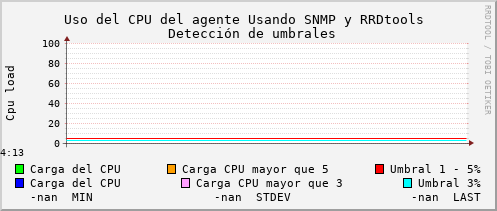
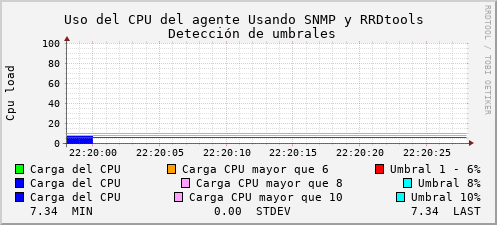
cambios

diff --git a/trendGraphDetection.py b/trendGraphDetection.py
@@ -9,7 +9,6 @@ def deteccion(segundos:int):
     ultima_lectura = int(rrdtool.last("trend.rrd"))
     tiempo_final = ultima_lectura
     tiempo_inicial = tiempo_final - segundos
-
     ret = rrdtool.graphv( "deteccion.png",
                         "--start",str(tiempo_inicial),
                         "--end",str(tiempo_final),
@@ -25,15 +24,20 @@ def deteccion(segundos:int):
                         "VDEF:cargaSTDEV=cargaCPU,STDEV",
                         "VDEF:cargaLAST=cargaCPU,LAST",
 
-                        "CDEF:umbral5=cargaCPU,5,LT,0,cargaCPU,IF",
+                        "CDEF:umbral6=cargaCPU,6,LT,0,cargaCPU,IF",
                         "AREA:cargaCPU#00FF00:Carga del CPU",
-                        "AREA:umbral5#FF9F00:Carga CPU mayor que 5",
-                        "HRULE:5#FF0000:Umbral 1 - 5%",
+                        "AREA:umbral6#FF9F00:Carga CPU mayor que 6",
+                        "HRULE:6#FF0000:Umbral 1 - 6%",
 
-                        "CDEF:umbral3=cargaCPU,3,LT,0,cargaCPU,IF",
+                        "CDEF:umbral8=cargaCPU,8,LT,0,cargaCPU,IF",
                         "AREA:cargaCPU#0000FF:Carga del CPU",
-                        "AREA:umbral3#FF9FFF:Carga CPU mayor que 3",
-                        "HRULE:3#00FFFF:Umbral 3%",
+                        "AREA:umbral8#FF9FFF:Carga CPU mayor que 8",
+                        "HRULE:8#00FFFF:Umbral 8%",
+
+                        "CDEF:umbral10=cargaCPU,10,LT,0,cargaCPU,IF",
+                        "AREA:cargaCPU#0000FF:Carga del CPU",
+                        "AREA:umbral10#FF9FFF:Carga CPU mayor que 10",
+                        "HRULE:10#00FFFF:Umbral 10%",
 
                         "PRINT:cargaLAST:%6.2lf",
                         "GPRINT:cargaMIN:%6.2lf %SMIN",
@@ -42,6 +46,20 @@ def deteccion(segundos:int):
     #print (ret)
 
     ultimo_valor=float(ret['print[0]'])
-    if ultimo_valor>4:
-        send_alert_attached("Sobrepasa Umbral línea base")
-        print("Sobrepasa Umbral línea base")
+
+    if ultimo_valor>8:
+        send_alert_attached("Sobrepasa Umbral línea base de 10")
+        #print("Sobrepasa Umbral línea base de 10")
+        return 'Sobrepasa Umbral línea base de 10',ultimo_valor,ret
+
+    if ultimo_valor>8:
+        send_alert_attached("Sobrepasa Umbral línea base de 8")
+        #print("Sobrepasa Umbral línea base de 8")
+        return 'Sobrepasa Umbral línea base de 8',ultimo_valor,ret
+
+    if ultimo_valor>6:
+        send_alert_attached("Sobrepasa Umbral línea base de 6")
+        #print("Sobrepasa Umbral línea base de 6")
+        return 'Sobrepasa Umbral línea base de 6',ultimo_valor,ret
+
+    return 'CPU carga correcta',ultimo_valor,ret

diff --git a/TrendUpdate.py b/TrendUpdate.py
@@ -11,14 +11,14 @@ def borrarPantalla():
     elif os.name == "ce" or os.name == "nt" or os.name == "dos":
         os.system("cls")
 
-def monitorear(comunidad:str,ip:str,oid:str):
+def monitorear(comunidad:str,ip:str):
     sistema = consultaSNMP(comunidad,ip,"1.3.6.1.2.1.1.1.0")
     nombre = consultaSNMP(comunidad,ip,"1.3.6.1.2.1.1.5.0")
     carga_CPU = 0
     RAM_Uso = 0
     DISCO_Uso = 0
     TOTAL_RAM = int(consultaSNMP(comunidad,ip,'1.3.6.1.4.1.2021.4.5.0'))
-    #TOTAL_DISCO = int(consultaSNMP(comunidad,ip,'1.3.6.1.4.1.2021.9.1'))
+    #TOTAL_DISCO = int(consultaSNMP(comunidad,ip,'1.3.6.1.4.1.2021.9.1.9'))
     factorMBaGB = 1024**2
 
     while 1:
@@ -46,5 +46,6 @@ def monitorear(comunidad:str,ip:str,oid:str):
         rrdtool.update('trend.rrd', valor)
         rrdtool.dump('trend.rrd','trend.xml')
 
-        deteccion(0)
+        msg = deteccion(30)
+        print(msg[0])
         time.sleep(1)
